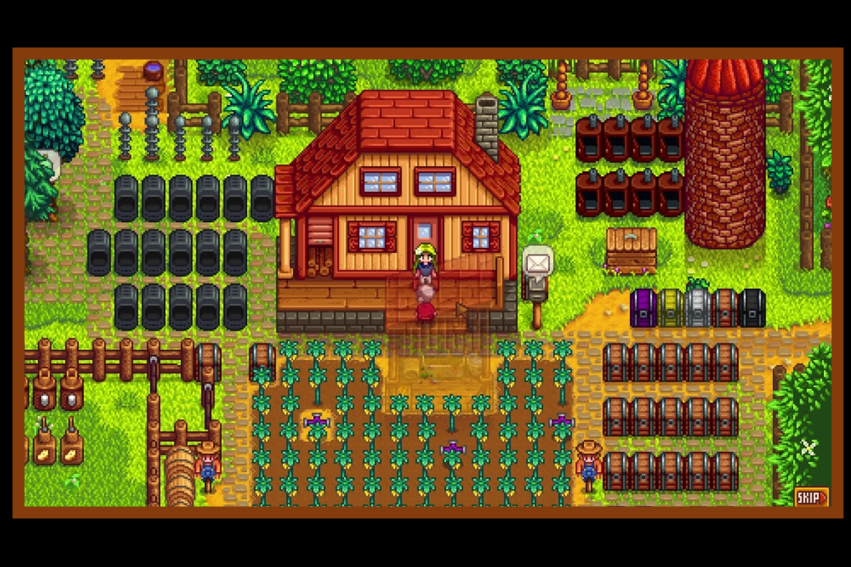
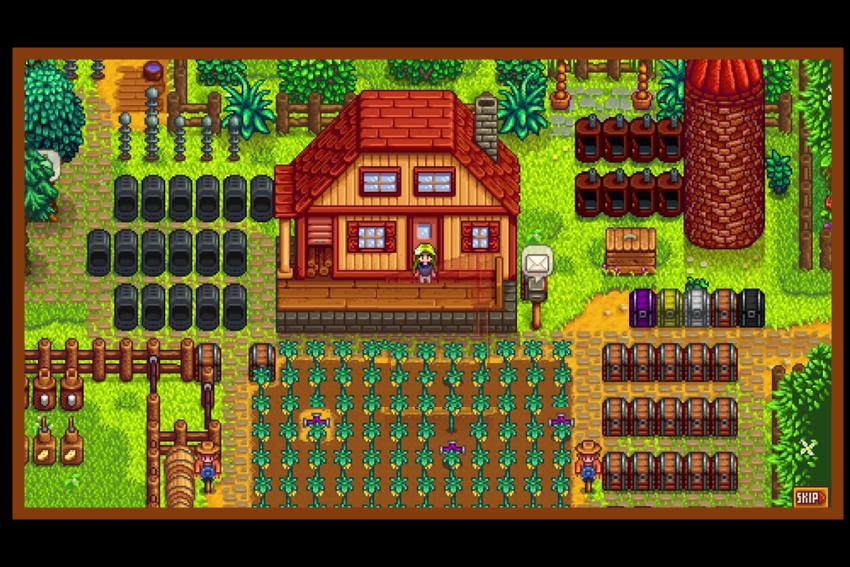
change images deail and door

Changed region(s): [[0.0306, 0.0899, 1.0, 0.9295], [0.3671, 0.4797, 0.6729, 0.7196]]

diff --git a/yard.py b/yard.py
@@ -38,7 +38,9 @@ def handle_events():
         elif event.type == SDL_KEYDOWN and event.key == SDLK_ESCAPE:
             game_framework.quit()
         elif event.type == SDL_KEYDOWN and event.key == SDLK_SPACE:
-            if 700 <= girl.x <= 740 and 500 <= girl.y <= 600:  # 특정 범위 확인
+            # Girl과 Door 사이의 거리 계산
+            distance = ((girl.x - door_x) ** 2 + (girl.y - door_y) ** 2) ** 0.5
+            if distance <= 30:  # 문 근처(거리 50 이하)일 때만 Livingroom으로 전환
                 game_framework.change_mode(livingroom)
         else:
             if girl:
